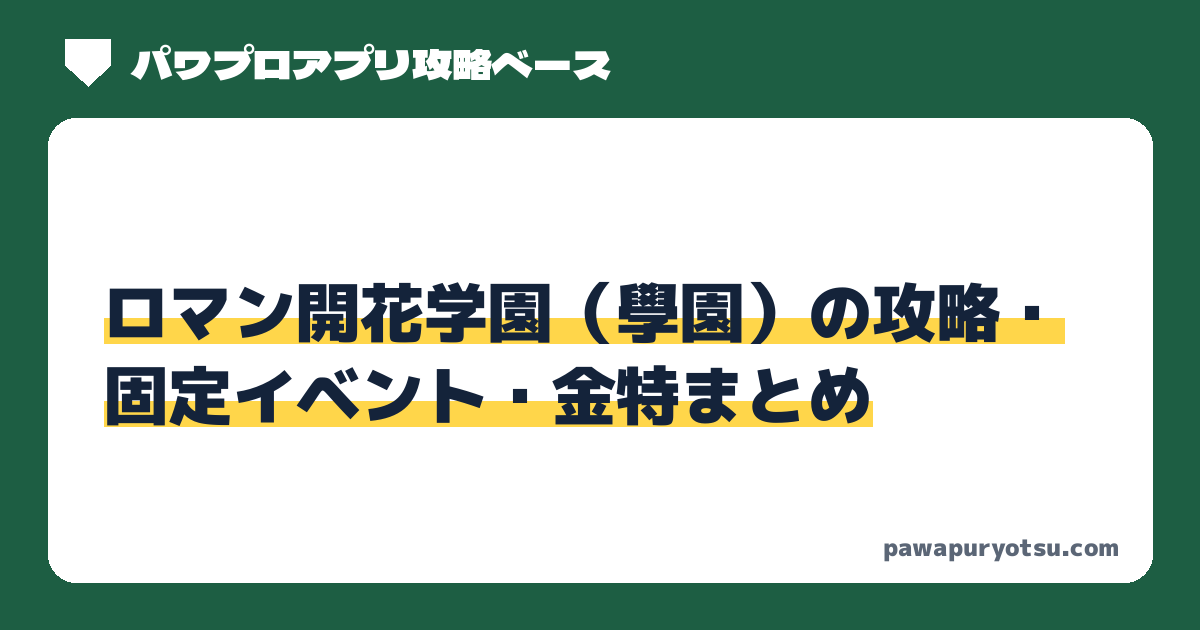
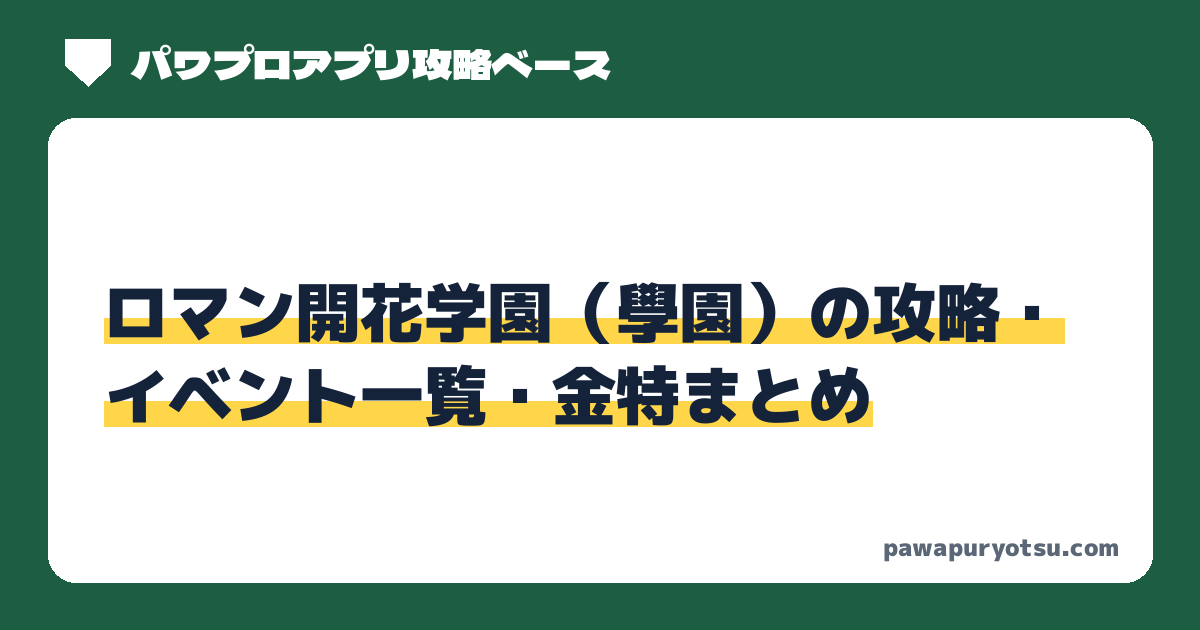
ロマン開花學園トップのタイトル・説明文を検索向けに見直し
Claude-Session: https://claude.ai/code/session_019YJeSxNx1LnP2SSifh1sgz

Changed region(s): [[0.0617, 0.573, 0.4008, 0.6937]]

diff --git a/docs/success/roman/index.html b/docs/success/roman/index.html
@@ -4,13 +4,13 @@
 <meta charset="utf-8">
 <meta name="viewport" content="width=device-width,initial-scale=1,viewport-fit=cover">
 <meta name="color-scheme" content="light">
-<title>ロマン開花学園（學園）の攻略・固定イベント・金特まとめ｜パワプロアプリ攻略ベース</title>
-<meta name="description" content="パワプロアプリのサクセス「ロマン開花學園（ロマン開花学園）」の攻略ページです。入手できる金特・固定イベントと、おすすめデッキ・イベキャラランキング・デッキの組み方・コスト計算ツールへの入口をまとめます。">
+<title>ロマン開花学園（學園）の攻略・イベント一覧・金特まとめ｜パワプロアプリ攻略ベース</title>
+<meta name="description" content="パワプロアプリのサクセス「ロマン開花學園（ロマン開花学園）」の攻略ページです。取得できる金特・所持経験点上限・シナリオ所属キャラ、固定イベントとランダムイベントの一覧（選択肢と効果）をまとめています。おすすめデッキ・イベキャラランキング・デッキの組み方・コスト計算ツールへの入口もあります。">
 <link rel="canonical" href="https://pawapuryotsu.com/success/roman/">
 <meta property="og:type" content="website">
 <meta property="og:site_name" content="パワプロアプリ攻略ベース">
-<meta property="og:title" content="ロマン開花学園（學園）の攻略・固定イベント・金特まとめ｜パワプロアプリ攻略ベース">
-<meta property="og:description" content="パワプロアプリのサクセス「ロマン開花學園（ロマン開花学園）」の攻略ページです。入手できる金特・固定イベントと、おすすめデッキ・イベキャラランキング・デッキの組み方・コスト計算ツールへの入口をまとめます。">
+<meta property="og:title" content="ロマン開花学園（學園）の攻略・イベント一覧・金特まとめ｜パワプロアプリ攻略ベース">
+<meta property="og:description" content="パワプロアプリのサクセス「ロマン開花學園（ロマン開花学園）」の攻略ページです。取得できる金特・所持経験点上限・シナリオ所属キャラ、固定イベントとランダムイベントの一覧（選択肢と効果）をまとめています。おすすめデッキ・イベキャラランキング・デッキの組み方・コスト計算ツールへの入口もあります。">
 <meta property="og:url" content="https://pawapuryotsu.com/success/roman/">
 <meta property="og:image" content="https://pawapuryotsu.com/img/og/success_roman.png">
 <meta property="og:image:width" content="1200">

diff --git a/src/pages/success-roman.html b/src/pages/success-roman.html
@@ -1,6 +1,6 @@
 <!--
-title: ロマン開花学園（學園）の攻略・固定イベント・金特まとめ｜パワプロアプリ攻略ベース
-description: パワプロアプリのサクセス「ロマン開花學園（ロマン開花学園）」の攻略ページです。入手できる金特・固定イベントと、おすすめデッキ・イベキャラランキング・デッキの組み方・コスト計算ツールへの入口をまとめます。
+title: ロマン開花学園（學園）の攻略・イベント一覧・金特まとめ｜パワプロアプリ攻略ベース
+description: パワプロアプリのサクセス「ロマン開花學園（ロマン開花学園）」の攻略ページです。取得できる金特・所持経験点上限・シナリオ所属キャラ、固定イベントとランダムイベントの一覧（選択肢と効果）をまとめています。おすすめデッキ・イベキャラランキング・デッキの組み方・コスト計算ツールへの入口もあります。
 path: success/roman/
 nav: roman
 crumb: ロマン開花學園
